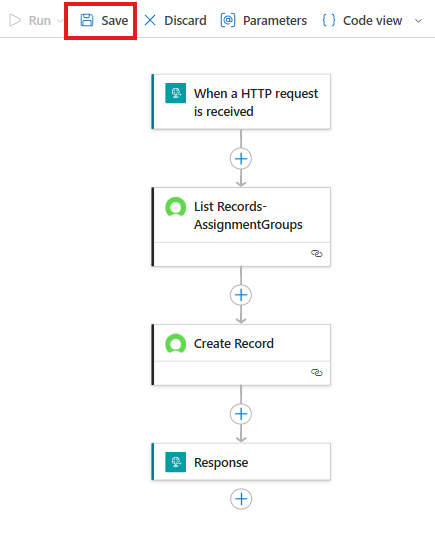
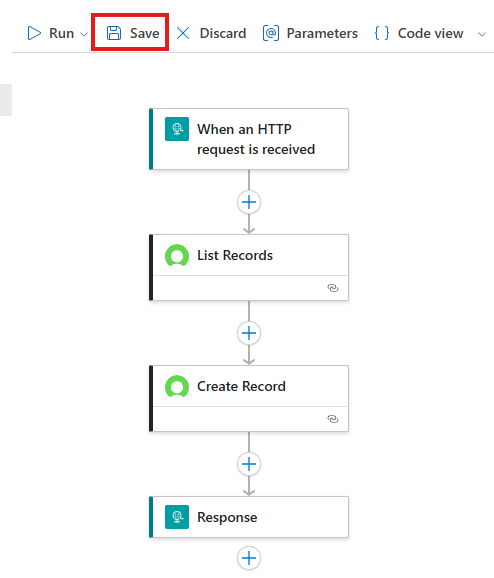
module 8: - updated images - updated expression mappings

diff --git a/docs/logic-apps-agent-in-a-day/08_create_tool_servicenow_create_incident.md b/docs/logic-apps-agent-in-a-day/08_create_tool_servicenow_create_incident.md
@@ -136,7 +136,6 @@ In this module we will create a stateful workflow to create a ServiceNow inciden
     ![Service Now - Create Record Action](./images/08_15_add_an_action_servicenow_create_item.png "servicenow create record action")
 
 1. Configure the Create Record action as follows:
-    - Rename action to: `Create Record-Incident`
     - **Record Type:** `Incident`
     - **Advanced Parameters:**
         - you can show selected advanced parameters by clicking on the dropdown and select each parameter individually
@@ -146,7 +145,7 @@ In this module we will create a stateful workflow to create a ServiceNow inciden
             ```
         - **Assignment Group:** 
             ```
-            @{first(body('List_Records-AssignmentGroups')?['result'])['sys_id']}
+            @{first(body('List_Records')?['result'])['sys_id']}
             ```
         - **Description:** 
             ```
@@ -173,7 +172,7 @@ In this module we will create a stateful workflow to create a ServiceNow inciden
     - **Body:**
         ```JSON
         {
-            "TicketNumber": "@{body('Create_Record-Incident')?['result']?['number']}"
+            "TicketNumber": "@{body('Create_Record')?['result']?['number']}"
         }
         ```
     - **Response Body JSON Schema**
